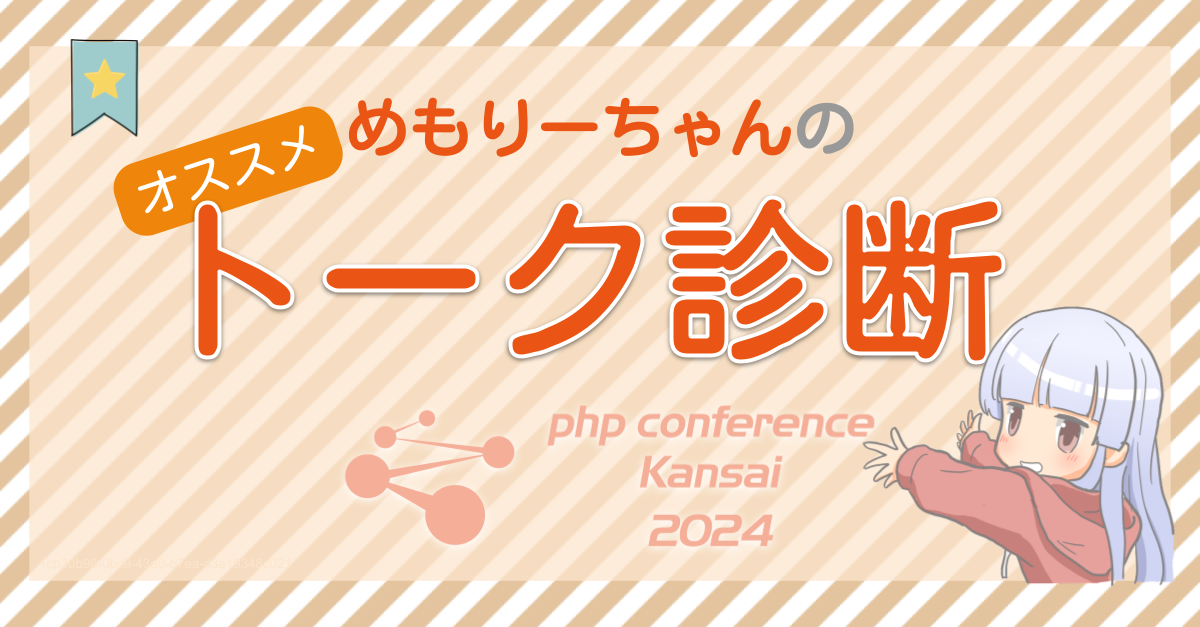
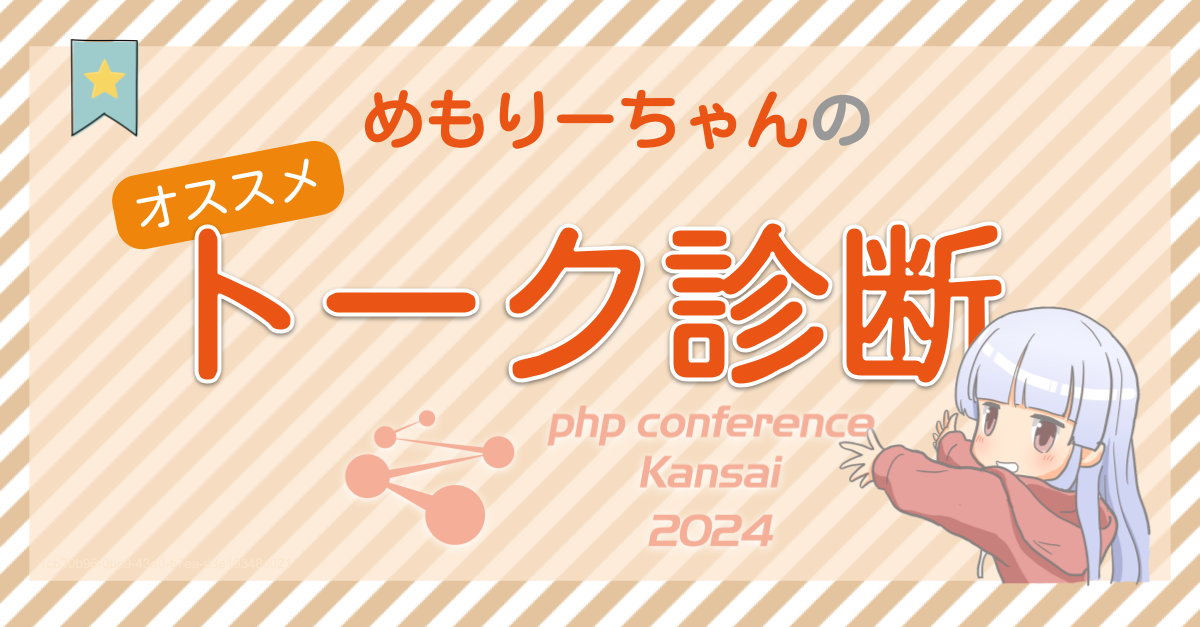
めもりーちゃん位置調整

Changed region(s): [[0.0925, 0.1515, 0.9867, 0.9394], [0.1542, 0.5455, 0.185, 0.6364]]

diff --git a/yes-no-questions/src/pages/IndexPage.vue b/yes-no-questions/src/pages/IndexPage.vue
@@ -249,8 +249,8 @@ export default defineComponent({
 }
 .memory-chan02 {
   position: absolute;
-  top: 35%;
-  left: -9%;
+  top: 50%;
+  left: -7%;
   width: 80px;
   opacity: 0.4;
   z-index: -1;
